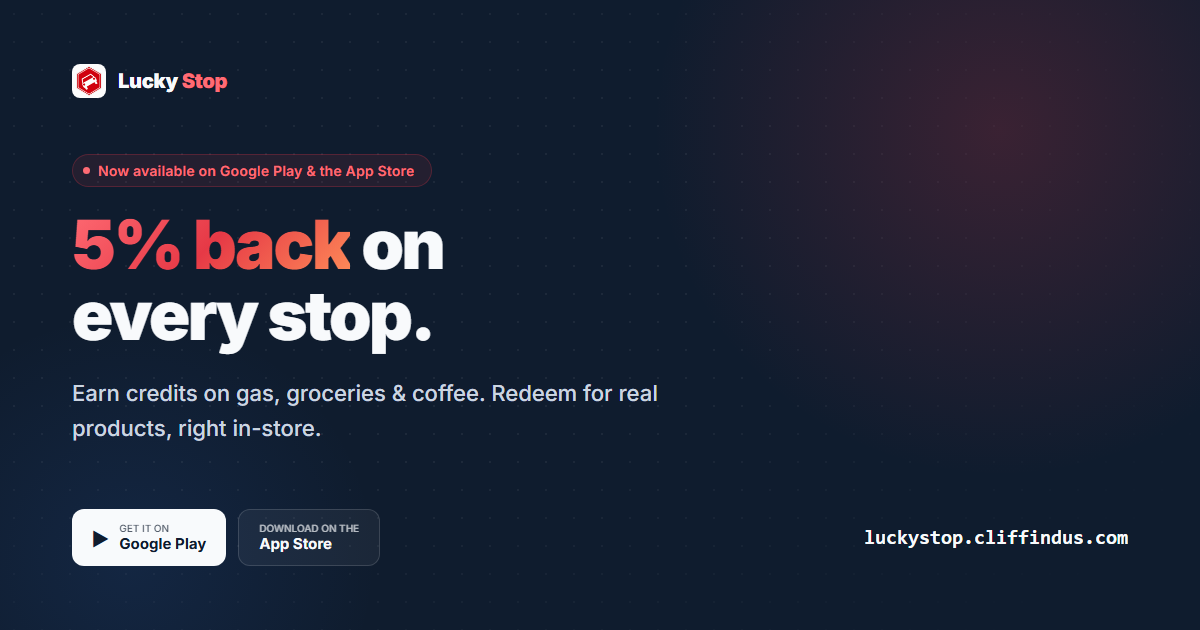
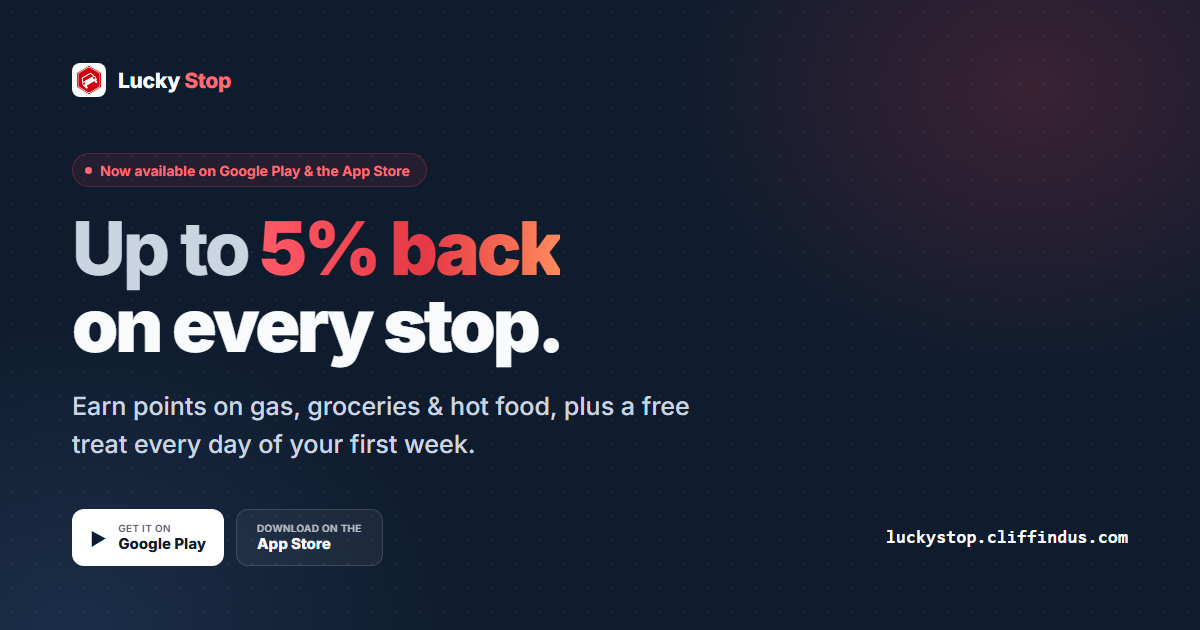
Correct luckystop.cliffindus.com against the real app
Tiers: right order (Platinum on top), app colors, 1% to 5% cashback and the
real perks per tier, six-month season note. Dropped the dollar thresholds and
"last 12 months" wording, which did not match the app.

Cashback is now "Up to 5%" everywhere (hero, stats strip, feature card, meta
text, share image) because 5% is the top-tier base rate, not every purchase.

New cards for the welcome week, hot food ordering and gas prices. Redeem and
How it works wording now matches the app. Replaced the "7 product categories"
stat with "5 reward tiers" and dropped the "no approval required" claim.
Kept the hero stats on one line at 360px. Rebuilt og.png.

diff --git a/luckystop.cliffindus.com/index.html b/luckystop.cliffindus.com/index.html
@@ -4,7 +4,7 @@
   <meta charset="UTF-8"/>
   <meta name="viewport" content="width=device-width, initial-scale=1.0"/>
   <title>Lucky Stop Rewards · Earn cashback at every visit</title>
-  <meta name="description" content="Lucky Stop Rewards gives you 5% cashback on every purchase at Lucky Stop convenience stores. Free on Google Play and the App Store."/>
+  <meta name="description" content="Earn up to 5% cashback at Lucky Stop, with a free treat every day of your first week and perks at every tier. Free on Google Play and the App Store."/>
   <link rel="canonical" href="https://luckystop.cliffindus.com/"/>
   <meta name="theme-color" content="#0F1C2E"/>
   <link rel="icon" href="/icon-32.png"/>
@@ -12,15 +12,15 @@
   <!-- Open Graph / social -->
   <meta property="og:type" content="website"/>
   <meta property="og:site_name" content="Lucky Stop"/>
-  <meta property="og:title" content="Lucky Stop · 5% back on every stop"/>
-  <meta property="og:description" content="Earn 5% cashback on gas, groceries, and coffee. Redeem credits for real products in-store. Now on Google Play and the App Store."/>
+  <meta property="og:title" content="Lucky Stop · Up to 5% back on every stop"/>
+  <meta property="og:description" content="Earn up to 5% cashback on gas, groceries, and hot food. New members get a free treat every day for a week. Now on Google Play and the App Store."/>
   <meta property="og:url" content="https://luckystop.cliffindus.com/"/>
   <meta property="og:image" content="https://luckystop.cliffindus.com/og.png"/>
   <meta property="og:image:width" content="1200"/>
   <meta property="og:image:height" content="630"/>
   <meta name="twitter:card" content="summary_large_image"/>
-  <meta name="twitter:title" content="Lucky Stop · 5% back on every stop"/>
-  <meta name="twitter:description" content="Earn 5% cashback, redeem for real products in-store. Now on Google Play and the App Store."/>
+  <meta name="twitter:title" content="Lucky Stop · Up to 5% back on every stop"/>
+  <meta name="twitter:description" content="Earn up to 5% cashback and redeem for free items in-store. Now on Google Play and the App Store."/>
   <meta name="twitter:image" content="https://luckystop.cliffindus.com/og.png"/>
   <link rel="preconnect" href="https://fonts.googleapis.com"/>
   <link rel="preconnect" href="https://fonts.gstatic.com" crossorigin/>
@@ -154,7 +154,7 @@
     .cta-ios:hover { background: rgba(255,255,255,0.09); transform: translateY(-2px); }
 
     .hero-stats { display: flex; gap: 32px; margin-top: 48px; padding-top: 32px; border-top: 1px solid var(--border); }
-    .hero-stat-num { font-size: 28px; font-weight: 800; letter-spacing: -1px; }
+    .hero-stat-num { font-size: 28px; font-weight: 800; letter-spacing: -1px; white-space: nowrap; }
     .hero-stat-num .r { color: var(--red-lt); }
     .hero-stat-lbl { font-size: 12px; color: var(--muted); font-weight: 500; margin-top: 2px; }
 
@@ -232,17 +232,26 @@
     .tier-name { font-size: 13px; font-weight: 700; letter-spacing: .5px; }
     .tier-req { font-size: 11px; color: var(--muted); line-height: 1.4; }
     .tier-bar { width: 100%; height: 2px; border-radius: 1px; margin-top: auto; }
+    .tier-pct { font-size: 26px; font-weight: 800; letter-spacing: -0.8px; line-height: 1; }
+    .tier-pct span { font-size: 12px; font-weight: 600; letter-spacing: 0; color: var(--muted); margin-left: 5px; }
+    .t-bronze .tier-pct { color: #E0A86A; } .t-silver .tier-pct { color: #C7C8CC; } .t-gold .tier-pct { color: #FFD24A; }
+    .t-diamond .tier-pct { color: #7DD8F8; } .t-plat .tier-pct { color: #ECEBE9; }
+    .tier-perks { list-style: none; display: flex; flex-direction: column; gap: 7px; margin: 2px 0 10px; }
+    .tier-perks li { font-size: 12px; color: var(--muted2); line-height: 1.45; padding-left: 12px; position: relative; }
+    .tier-perks li::before { content: ''; position: absolute; left: 0; top: .62em; width: 4px; height: 4px; border-radius: 50%; background: var(--muted); }
+    .tier-note { margin-top: 22px; max-width: 760px; font-size: 13px; color: var(--muted); line-height: 1.7; }
+    .up { font-size: .5em; font-weight: 600; letter-spacing: 0; color: var(--muted); margin-right: 3px; }
 
     .t-bronze  { background: rgba(180,120,60,0.08);  border-color: rgba(180,120,60,0.2);  }
     .t-silver  { background: rgba(160,160,160,0.08); border-color: rgba(160,160,160,0.2); }
     .t-gold    { background: rgba(245,158,11,0.08);  border-color: rgba(245,158,11,0.2);  }
-    .t-plat    { background: rgba(99,179,237,0.08);  border-color: rgba(99,179,237,0.2);  }
-    .t-diamond { background: rgba(168,85,247,0.08);  border-color: rgba(168,85,247,0.2);  }
+    .t-diamond { background: rgba(125,216,248,0.08); border-color: rgba(125,216,248,0.22); }
+    .t-plat    { background: rgba(229,228,226,0.08); border-color: rgba(229,228,226,0.22); }
     .b-bronze  { background: #B47C3C; }
     .b-silver  { background: #A0A0A0; }
     .b-gold    { background: #F59E0B; }
-    .b-plat    { background: #63B3ED; }
-    .b-diamond { background: #A855F7; }
+    .b-diamond { background: #7DD8F8; }
+    .b-plat    { background: #E5E4E2; }
 
     /* BUSINESS PITCH */
     .biz-grid { display: grid; grid-template-columns: repeat(4, 1fr); gap: 10px; position: relative; }
@@ -371,6 +380,8 @@
 
     @media (max-width: 560px) {
       .biz-grid { grid-template-columns: 1fr; }
+      .hero-stats { gap: 16px; }
+      .hero-stat-lbl { font-size: 11px; }
     }
   </style>
 </head>
@@ -421,7 +432,7 @@
         </h1>
 
         <p>
-          Earn 5% cashback on every purchase at Lucky Stop. Redeem credits for free products like gas, snacks, and drinks, right at the register.
+          Earn up to 5% cashback at Lucky Stop, and your rate grows with every tier you climb. Redeem your points for free items, right at the register.
         </p>
 
         <div class="hero-ctas">
@@ -443,8 +454,8 @@
 
         <div class="hero-stats">
           <div class="hero-stat">
-            <div class="hero-stat-num"><span class="r">5%</span></div>
-            <div class="hero-stat-lbl">Cashback every purchase</div>
+            <div class="hero-stat-num"><span class="r"><span class="up">Up to</span> 5%</span></div>
+            <div class="hero-stat-lbl">Cashback, by tier</div>
           </div>
           <div class="hero-stat">
             <div class="hero-stat-num">12+</div>
@@ -522,16 +533,16 @@
 
   <div class="strip">
     <div class="strip-item">
-      <div class="strip-num r">5%</div>
-      <div class="strip-lbl">Cashback rate</div>
+      <div class="strip-num r"><span class="up">Up to</span> 5%</div>
+      <div class="strip-lbl">Cashback, by tier</div>
     </div>
     <div class="strip-item">
       <div class="strip-num">12+</div>
       <div class="strip-lbl">Store locations</div>
     </div>
     <div class="strip-item">
-      <div class="strip-num">7</div>
-      <div class="strip-lbl">Product categories</div>
+      <div class="strip-num">5</div>
+      <div class="strip-lbl">Reward tiers</div>
     </div>
     <div class="strip-item">
       <div class="strip-num r">Free</div>
@@ -549,13 +560,13 @@
       <div class="f-card b8" data-reveal style="min-height:200px">
         <span class="f-card-icon">📲</span>
         <h3>Scan &amp; earn instantly</h3>
-        <p>Show your QR code at checkout. The cashier scans it, enters your purchase, and your credits appear immediately. No waiting, no approval required.</p>
+        <p>Show your QR code at checkout. The cashier scans it, enters your purchase, and your credits appear right away.</p>
       </div>
 
       <div class="f-card b4" data-reveal style="display:flex;flex-direction:column;justify-content:space-between;gap:20px;min-height:200px">
         <div>
-          <div class="highlight-num">5%</div>
-          <div class="highlight-sub">back on every purchase, every time</div>
+          <div class="highlight-num"><span class="up">Up to</span> 5%</div>
+          <div class="highlight-sub">back on every purchase, and your rate grows with every tier</div>
         </div>
         <div style="border-top:1px solid var(--border);padding-top:16px">
           <div class="highlight-num" style="font-size:32px">$0</div>
@@ -563,10 +574,28 @@
         </div>
       </div>
 
-      <div class="f-card b6" data-reveal>
+      <div class="f-card b4" data-reveal>
         <span class="f-card-icon">🎁</span>
-        <h3>Redeem for real products</h3>
-        <p>Credits go toward free gas, snacks, drinks, and more at any participating Lucky Stop location.</p>
+        <h3>Week one's on us</h3>
+        <p>New members get a free item every day for their first 7 days: a fountain drink, a coffee, a 12oz soda or a hot food snack. Pick one in the app and show the code at the register.</p>
+      </div>
+
+      <div class="f-card b4" data-reveal data-d="1">
+        <span class="f-card-icon">🔥</span>
+        <h3>Order hot food ahead</h3>
+        <p>Order from the hot food menu in the app at participating stores. The team gets it right away and has it ready for you shortly.</p>
+      </div>
+
+      <div class="f-card b4" data-reveal data-d="2">
+        <span class="f-card-icon">⛽</span>
+        <h3>Gas prices at your store</h3>
+        <p>See today's gas and diesel prices for your store, plus any active gas offers, right on your home screen.</p>
+      </div>
+
+      <div class="f-card b6" data-reveal>
+        <span class="f-card-icon">🛍</span>
+        <h3>Redeem for real rewards</h3>
+        <p>Spend your points on free items from the rewards catalog, or ask the cashier to apply your balance to a purchase. Works at any Lucky Stop location.</p>
       </div>
 
       <div class="f-card b6" data-reveal>
@@ -612,13 +641,13 @@
         <div class="step-num">Step 03</div>
         <span class="step-icon">⛽</span>
         <h4>Shop at Lucky Stop</h4>
-        <p>Show your QR code at checkout. Cashier enters the amount and you earn credits.</p>
+        <p>Show your QR code at checkout. The cashier scans it and you earn points on the purchase.</p>
       </div>
       <div class="step">
         <div class="step-num">Step 04</div>
         <span class="step-icon">🎉</span>
         <h4>Redeem your credits</h4>
-        <p>Tell the cashier you want to redeem. They apply your credits right at the register.</p>
+        <p>Open Redeem Rewards in the app, pick an item and show the code. The cashier scans your QR to confirm.</p>
       </div>
     </div>
   </section>
@@ -723,40 +752,66 @@
   <section id="tiers" class="section">
     <div class="eyebrow" data-reveal>Rewards Tiers</div>
     <h2 class="section-title" data-reveal>Spend more, earn more</h2>
-    <p class="section-sub" data-reveal>Your tier level unlocks bonus cashback and exclusive perks. Tiers are based on your last 12 months of spending.</p>
+    <p class="section-sub" data-reveal>Your tier sets your cashback rate and unlocks perks. Earn points to move up, and the progress bar in the app always shows how close you are to the next tier.</p>
 
     <div class="tiers" data-reveal>
       <div class="tier-card t-bronze">
         <div class="tier-badge">🥉</div>
         <div class="tier-name">Bronze</div>
-        <div class="tier-req">Starting tier · All members begin here</div>
+        <div class="tier-pct">1%<span>back</span></div>
+        <ul class="tier-perks">
+          <li>Where every member starts</li>
+          <li>Works at every Lucky Stop location</li>
+          <li>Member-only deals and promotions</li>
+        </ul>
         <div class="tier-bar b-bronze"></div>
       </div>
       <div class="tier-card t-silver">
         <div class="tier-badge">🥈</div>
         <div class="tier-name">Silver</div>
-        <div class="tier-req">$250+ spending</div>
+        <div class="tier-pct">2%<span>back</span></div>
+        <ul class="tier-perks">
+          <li>7 free fountain refills each period</li>
+          <li>Silver-only offers and rewards</li>
+        </ul>
         <div class="tier-bar b-silver"></div>
       </div>
       <div class="tier-card t-gold">
         <div class="tier-badge">🥇</div>
         <div class="tier-name">Gold</div>
-        <div class="tier-req">$500+ spending + bonus events</div>
+        <div class="tier-pct">3%<span>back</span></div>
+        <ul class="tier-perks">
+          <li>A free fountain refill every day</li>
+          <li>+5¢ per gallon on gas</li>
+          <li>Gold-only catalog items</li>
+        </ul>
         <div class="tier-bar b-gold"></div>
       </div>
-      <div class="tier-card t-plat">
-        <div class="tier-badge">💎</div>
-        <div class="tier-name">Platinum</div>
-        <div class="tier-req">$1,000+ · Priority offers</div>
-        <div class="tier-bar b-plat"></div>
-      </div>
       <div class="tier-card t-diamond">
-        <div class="tier-badge">👑</div>
+        <div class="tier-badge">💎</div>
         <div class="tier-name">Diamond</div>
-        <div class="tier-req">$2,500+ · Top-tier perks</div>
+        <div class="tier-pct">4%<span>back</span></div>
+        <ul class="tier-perks">
+          <li>A free fountain refill every day</li>
+          <li>+7¢ per gallon on gas</li>
+          <li>Limited drops and early access to new rewards</li>
+        </ul>
         <div class="tier-bar b-diamond"></div>
       </div>
+      <div class="tier-card t-plat">
+        <div class="tier-badge">👑</div>
+        <div class="tier-name">Platinum</div>
+        <div class="tier-pct">5%<span>back</span></div>
+        <ul class="tier-perks">
+          <li>A free fountain refill every day</li>
+          <li>+10¢ per gallon on gas</li>
+          <li>The Platinum vault: top-tier rewards only</li>
+        </ul>
+        <div class="tier-bar b-plat"></div>
+      </div>
     </div>
+
+    <p class="tier-note" data-reveal>Tiers run in six-month seasons, January to June and July to December. Each new season starts one tier lower than you finished, so every point you earn helps you climb back and keep your perks. Category bonuses and store promotions stack on top of your tier rate, and free refills are for your own cup.</p>
   </section>
 
   <hr class="section-divider"/>
